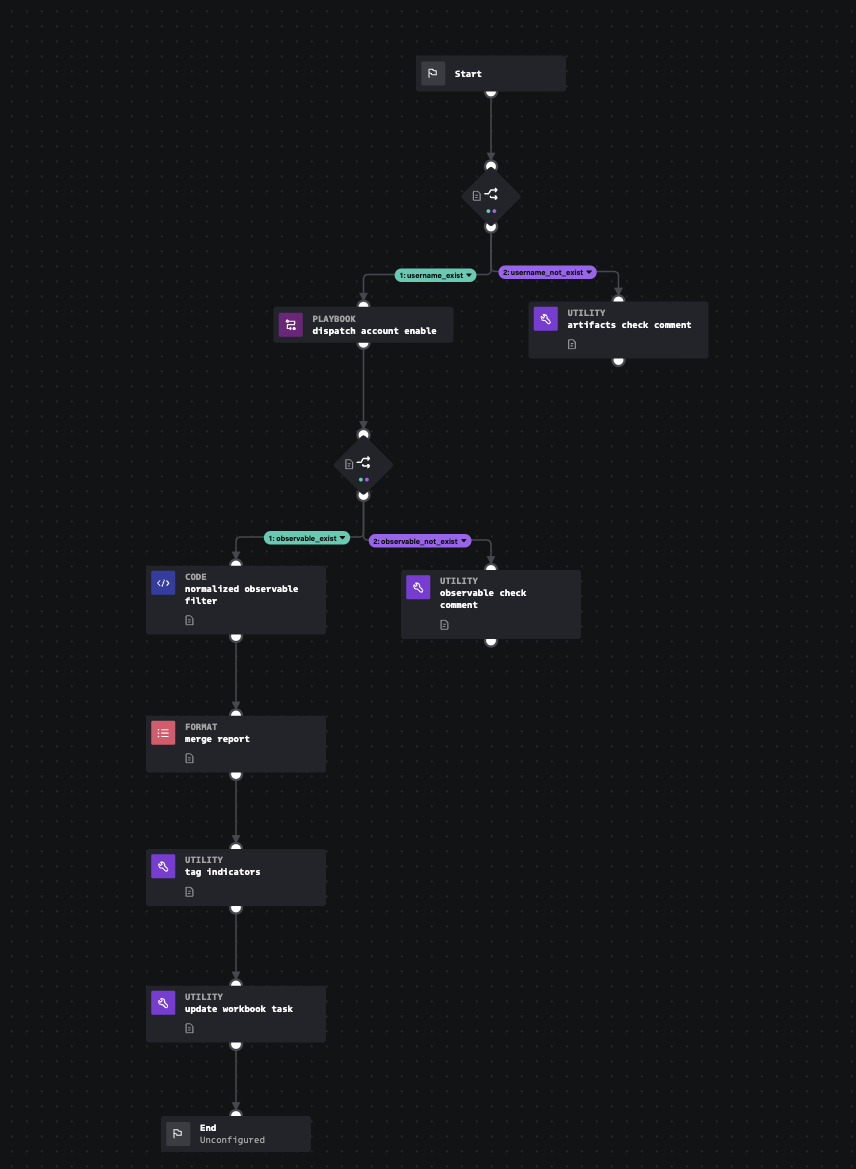
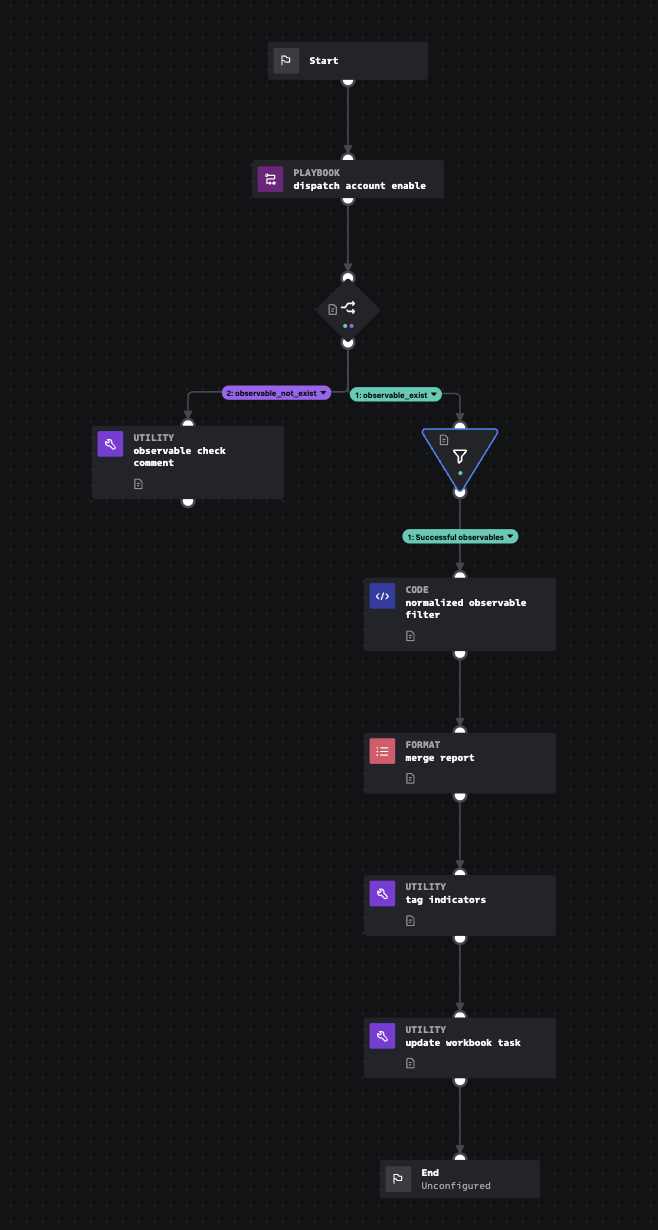
Resolved Bug

diff --git a/playbooks/Active_Directory_Enable_Account_Dispatch.py b/playbooks/Active_Directory_Enable_Account_Dispatch.py
@@ -12,8 +12,8 @@ from datetime import datetime, timedelta
 def on_start(container):
     phantom.debug('on_start() called')
 
-    # call 'username_filter' block
-    username_filter(container=container)
+    # call 'dispatch_account_enable' block
+    dispatch_account_enable(container=container)
 
     return
 
@@ -40,67 +40,17 @@ def dispatch_account_enable(action=None, success=None, container=None, results=N
     ################################################################################
 
     # call playbook "community/dispatch_input_playbooks", returns the playbook_run_id
-    playbook_run_id = phantom.playbook("community/dispatch_input_playbooks", container=container, name="dispatch_account_enable", callback=observable_output_filter, inputs=inputs)
+    playbook_run_id = phantom.playbook("community/dispatch_input_playbooks", container=container, name="dispatch_account_enable", callback=observable_output_decision, inputs=inputs)
 
     return
 
 
 @phantom.playbook_block()
-def username_filter(action=None, success=None, container=None, results=None, handle=None, filtered_artifacts=None, filtered_results=None, custom_function=None, **kwargs):
-    phantom.debug("username_filter() called")
+def observable_output_decision(action=None, success=None, container=None, results=None, handle=None, filtered_artifacts=None, filtered_results=None, custom_function=None, **kwargs):
+    phantom.debug("observable_output_decision() called")
 
     ################################################################################
-    # Filter user name inputs to route inputs to appropriate actions.
-    ################################################################################
-
-    # check for 'if' condition 1
-    found_match_1 = phantom.decision(
-        container=container,
-        conditions=[
-            ["artifact:*.cef.act", "!=", ""]
-        ],
-        delimiter=",")
-
-    # call connected blocks if condition 1 matched
-    if found_match_1:
-        dispatch_account_enable(action=action, success=success, container=container, results=results, handle=handle)
-        return
-
-    # check for 'else' condition 2
-    artifacts_check_comment(action=action, success=success, container=container, results=results, handle=handle)
-
-    return
-
-
-@phantom.playbook_block()
-def artifacts_check_comment(action=None, success=None, container=None, results=None, handle=None, filtered_artifacts=None, filtered_results=None, custom_function=None, **kwargs):
-    phantom.debug("artifacts_check_comment() called")
-
-    ################################################################################
-    # no valid username or user principal name artifacts input
-    ################################################################################
-
-    ################################################################################
-    ## Custom Code Start
-    ################################################################################
-
-    # Write your custom code here...
-
-    ################################################################################
-    ## Custom Code End
-    ################################################################################
-
-    phantom.comment(container=container, comment="No valid username or user principal name artifacts input")
-
-    return
-
-
-@phantom.playbook_block()
-def observable_output_filter(action=None, success=None, container=None, results=None, handle=None, filtered_artifacts=None, filtered_results=None, custom_function=None, **kwargs):
-    phantom.debug("observable_output_filter() called")
-
-    ################################################################################
-    # Filter to check if observable output is successfully generated or not.
+    # Decision to check if observable output is successfully generated or not.
     ################################################################################
 
     # check for 'if' condition 1
@@ -109,11 +59,12 @@ def observable_output_filter(action=None, success=None, container=None, results=
         conditions=[
             ["dispatch_account_enable:playbook_output:observable", "!=", ""]
         ],
-        delimiter=",")
+        case_sensitive=False,
+        delimiter=None)
 
     # call connected blocks if condition 1 matched
     if found_match_1:
-        normalized_observable_filter(action=action, success=success, container=container, results=results, handle=handle)
+        observable_filter(action=action, success=success, container=container, results=results, handle=handle)
         return
 
     # check for 'else' condition 2
@@ -132,9 +83,9 @@ def normalized_observable_filter(action=None, success=None, container=None, resu
     # types of disable_account used to locked users in active directory.
     ################################################################################
 
-    dispatch_account_enable_output_observable = phantom.collect2(container=container, datapath=["dispatch_account_enable:playbook_output:observable"])
+    filtered_output_0_dispatch_account_enable_output_observable = phantom.collect2(container=container, datapath=["filtered-data:observable_filter:condition_1:dispatch_account_enable:playbook_output:observable"])
 
-    dispatch_account_enable_output_observable_values = [item[0] for item in dispatch_account_enable_output_observable]
+    filtered_output_0_dispatch_account_enable_output_observable_values = [item[0] for item in filtered_output_0_dispatch_account_enable_output_observable]
 
     normalized_observable_filter__observable_value = None
     normalized_observable_filter__observable_type = None
@@ -149,9 +100,9 @@ def normalized_observable_filter(action=None, success=None, container=None, resu
     normalized_observable_filter__observable_value = []
     normalized_observable_filter__observable_merge_report = []
     fmt_output = ""
-    output_observable_values =  [(i or "") for i in dispatch_account_enable_output_observable_values]
+    output_observable_values =  [(i or "") for i in filtered_output_0_dispatch_account_enable_output_observable_values]
     
-    #phantom.debug("output_observable_values: {}".format(output_observable_values))
+    phantom.debug("output_observable_values: {}".format(output_observable_values))
     for observable_item in output_observable_values:
         if observable_item['status'] == "success":
             user_name = observable_item['value'].split("@")[0]
@@ -160,7 +111,7 @@ def normalized_observable_filter(action=None, success=None, container=None, resu
             normalized_observable_filter__observable_merge_report.append(fmt_output)
     normalized_observable_filter__observable_value = normalized_observable_filter__observable_value[0]
     normalized_observable_filter__observable_type = "Enable Account"
-    #phantom.debug(normalized_observable_filter__observable_merge_report)
+    phantom.debug(normalized_observable_filter__observable_merge_report)
     ################################################################################
     ## Custom Code End
     ################################################################################
@@ -205,7 +156,7 @@ def merge_report(action=None, success=None, container=None, results=None, handle
     # summary report for all disable account input playbooks.
     ################################################################################
 
-    template = """SOAR retrieved tickets from Splunk. The table below shows a summary of the information gathered.\\n\\n\n| Value | Type | Message | Status |\n| --- | --- | --- | --- |\n%%\n| {0}\n%%\n"""
+    template = """SOAR attempted to unlock account(s). The table below shows a summary of the information gathered.\\n\\n\n| Value | Type | Message | Status |\n| --- | --- | --- | --- |\n%%\n| {0} \n%%\n"""
 
     # parameter list for template variable replacement
     parameters = [
@@ -296,6 +247,30 @@ def update_workbook_task(action=None, success=None, container=None, results=None
     ################################################################################
 
     phantom.custom_function(custom_function="community/workbook_task_update", parameters=parameters, name="update_workbook_task")
+
+    return
+
+
+@phantom.playbook_block()
+def observable_filter(action=None, success=None, container=None, results=None, handle=None, filtered_artifacts=None, filtered_results=None, custom_function=None, **kwargs):
+    phantom.debug("observable_filter() called")
+
+    ################################################################################
+    # Filter to check if observable output is successfully generated or not.
+    ################################################################################
+
+    # collect filtered artifact ids and results for 'if' condition 1
+    matched_artifacts_1, matched_results_1 = phantom.condition(
+        container=container,
+        conditions=[
+            ["dispatch_account_enable:playbook_output:observable", "!=", ""]
+        ],
+        name="observable_filter:condition_1",
+        delimiter=None)
+
+    # call connected blocks if filtered artifacts or results
+    if matched_artifacts_1 or matched_results_1:
+        normalized_observable_filter(action=action, success=success, container=container, results=results, handle=handle, filtered_artifacts=matched_artifacts_1, filtered_results=matched_results_1)
 
     return
 
